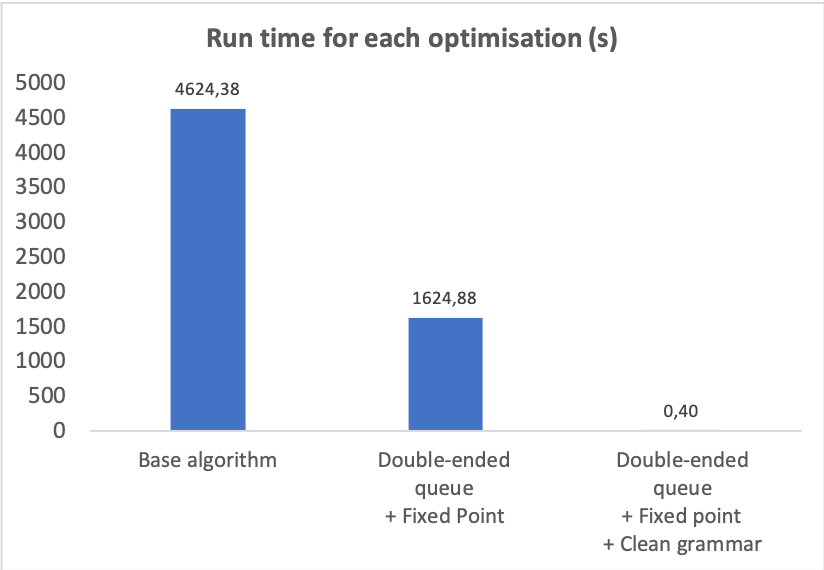
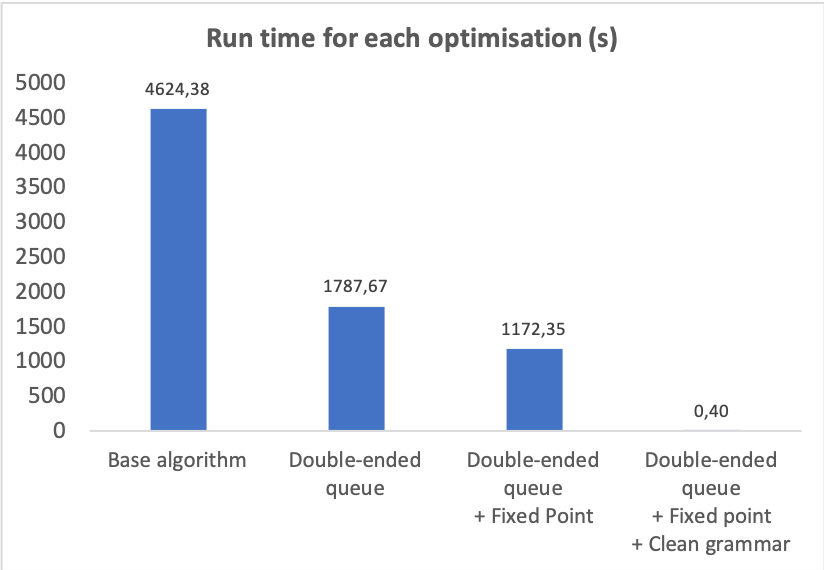
updates concur 2019

Changed region(s): [[0.1214, 0.1193, 0.7282, 0.9246], [0.7282, 0.7754, 0.9709, 0.9842], [0.7888, 0.7158, 0.8799, 0.7456]]

diff --git a/doc/Concur2019/soundness.tex b/doc/Concur2019/soundness.tex
@@ -47,9 +47,10 @@ to $\toGrammarf S$.
 \end{lemma}
 
 \begin{proof}
-  By rule induction on the definition of $\DONE S$. Cases $\skipk$ and
-  $\reck$ follow directly from the respective cases in function
-  $\toGrammark$ in Listing~\ref{lst:toGrammar}. The case for
+  By rule induction on the definition of $\DONE S$. Case $\skipk$ 
+  follows directly from the case in function
+  $\toGrammark$ in Listing~\ref{lst:toGrammar}. The cases for
+  $\reck$  and for
   sequential composition follows by induction and the fact that
   $\varepsilon+\!\!+\,\varepsilon=\varepsilon$.
   % Given that all variables in a type are under some $\mu$-binder,
@@ -62,7 +63,7 @@ to $\toGrammarf S$.
 \end{proof}
 
 To prove that the bisimulations on context-free session types and
-those on productions coincide, we present a bisimilarity between
+on grammars coincide, we present a bisimilarity between
 context-free session types and the result of \lstinline|toGrammar|.
 %
 %As the implementation of \isCheckedf is not shown, we assume that
@@ -110,6 +111,23 @@ symbol}, \vec W \text{ is a word}\}\subseteq P$:
 	\{Z \rightarrow a_j \vec {W_j}\}_{j\in J}\subseteq P
 \end{cases}
 \]
+
+To show that $\mathcal{R}$ is a bisimilarity, we use
+the unravelling function proposed 
+by Thiemann and Vasconcelos~\cite{thiemann2016context}:
+\[\begin{aligned}
+\Unravel(\mu x . S) &= \Unravel(\subs{\mu X.S}{X} S)\\
+\Unravel(S_1;S_2) &= 
+\begin{cases}
+	\Unravel(S_2) & \Unravel(S_1)=\skipk\\
+	\Unravel(S_1);S_2 & \Unravel(S_1)\neq\skipk\\
+\end{cases} \\
+\Unravel(S)&= S \text{  for all other cases}
+\end{aligned}\]
+%
+Notice that for any recursive type 
+$\mu X.S$, $\Unravel(\mu X.S)$ is not a recursive type and preserves the 
+transitions from $\mu X.S$.
 
 \begin{lemma}
   \label{lemma:bisim_unr}
@@ -167,22 +185,7 @@ The same argument applies to the proof of the following lemma.
 \end{lemma}
 
 Now we show that the relation $\mathcal{R}$ is a bisimilarity. We do it
-by induction. For that, we use the unravelling function proposed 
-by Thiemann and Vasconcelos~\cite{thiemann2016context}:
-
-\[\begin{aligned}
-\Unravel(\mu x . S) &= \Unravel(\subs{\mu X.S}{X} S)\\
-\Unravel(S_1;S_2) &= 
-\begin{cases}
-	\Unravel(S_2) & \Unravel(S_1)=\skipk\\
-	\Unravel(S_1);S_2 & \Unravel(S_1)\neq\skipk\\
-\end{cases} \\
-\Unravel(S)&= S \text{  for all other cases}
-\end{aligned}\]
-%
-Notice that for any recursive type 
-$\mu X.S$, $\Unravel(\mu X.S)$ is not a recursive type and preserves the 
-transitions from $\mu X.S$.
+by induction, using the unravelling function. 
 
 \begin{theorem}
 \label{thm:cfst_vs_grammar}
@@ -193,7 +196,7 @@ transitions from $\mu X.S$.
 	We show that for each $(S, (\vec X, P))\in \mathcal{R}$	, if
 	$S \LTSderives[a] T$ then $\vec X \rightarrow a \vec Y\in P$
 	and $(T, (\vec Y, P'))\in \mathcal{R}$ for some $P'$. The proof is by
-	induction on the structure of $S$. With this purpose, whenever $S$ is a 
+	induction on the structure of $S$. Whenever $S$ is a 
 	recursive type, we reduce the analysis to $\Unravel(S)$, that
 	is not recursive. Indeed, without loss of generality, 
 	we can always reduce the analysis of $S$
@@ -242,8 +245,15 @@ transitions from $\mu X.S$.
     	Lemma~\ref{lem:terminated-togrammar} we have $\vec X_1 = \varepsilon$, 
     	hence $\vec X_1 \vec X_2 = \vec X_2 \rightarrow a \vec Y_2$.
     	\end{itemize}
-    	\item $(\mu X.S, (\varepsilon, \emptyset))$ and $Z\vec Z, P = \toGrammarf{S}$: 
-    	by corollary~\ref{corol:bisim_unr}, we have 
+		\item $(\mu X.S, (\varepsilon, \emptyset))$ and $\varepsilon, \emptyset = \toGrammarf{S}$: 
+    	assume that there exists $\mu X.S  \LTSderives[a] T$. This
+    	implies that $\Unravel(\mu X.S)  \LTSderives[a] T$. Observe that
+    	by definition of the unravel and since $S$ is contractive, we should
+    	also have a transition $S  \LTSderives[a] T'$, and hence $S$ would derive a 
+    	production, which is a contradiction with
+    	the assumption that $\varepsilon, \emptyset = \toGrammarf{S}$.
+    	\item $(\mu X.S, (\varepsilon, \emptyset))$, $Z\vec Z, P = \toGrammarf{S}$, and $\pi(Z)=\emptyset$: 
+    	by corollary~\ref{corol:bisim_unr}, we know that 
     	$(\Unravel(\mu X.S), (\varepsilon, \emptyset)) \in \mathcal{R}$ and thence
     	\begin{equation}
     	\label{eq:unr}
@@ -252,31 +262,27 @@ transitions from $\mu X.S$.
     	Now assume that
     	exists $\mu X.S  \LTSderives[a] T$. This means that 
     	$\Unravel(\mu X.S) \LTSderives[a] T$. By induction hypothesis on 
-    	$\Unravel(\mu X.S)$, we would have $(\Unravel(\mu X.S), (\vec X, P))$
+    	$\Unravel(\mu X.S)$, we would have $(\Unravel(\mu X.S), (\vec X, P))
+    	\in \mathcal{R}$
     	where $\vec X, P = \toGrammarf{(\Unravel(\mu X.S))}$ and with
     	$\vec X \rightarrow a \vec Y \in P$, which is a contradiction 
     	with~\eqref{eq:unr} and so $\mu X.S$ does not have any transition.
 %    	in this case, $\isCheckedf \mu X.S$, thus
 %    	we do not have any transition (Lemma~\ref{lem:terminated-togrammar}).
-		\item $(\mu X.S, (\varepsilon, \emptyset))$ and $\varepsilon, \emptyset = \toGrammarf{S}$: 
-    	assume that there exists $\mu X.S  \LTSderives[a] T$. This
-    	implies that $\Unravel(\mu X.S)  \LTSderives[a] T$. Observe that
-    	by definition of the unravel and since $S$ is contractive, we should
-    	also have $S  \LTSderives[a] T'$, and hence $S$ would derive a 
-    	production, which is a contradiction with
-    	the assumption that $\varepsilon, \emptyset = \toGrammarf{S}$.
     	\item $(\mu X.S, (X, \{X \rightarrow a_j \vec {W_j}\vec Z\}_{j\in J} \cup  P))$: 
     	if $\mu X.S\LTSderives[b] T$, then $\Unravel(\mu X.S)\LTSderives[b] T$.
     	Furthermore, by Lemma~\ref{lemma:bisim_unr} we know that 
-    	$(\Unravel(\mu X.S), (X, \{X \rightarrow a_j \vec {Z_j}\vec Y\}_{j\in J} \cup  P))
+    	$(\Unravel(\mu X.S), (X, \{X \rightarrow a_j \vec {W_j}\vec Z\}_{j\in J} \cup  P))
     	\in\mathcal{R}$. By induction hypothesis on $\Unravel(\mu X.S)$, 
     	and since $X$ does not occur in $P$, it follows 
-    	that $b=a_j$ for some $j\in J$ and $(T, (\vec Z_j \vec Y, P'))\in \mathcal{R}$.
+    	that $b=a_j$ for some $j\in J$ and $(T, (\vec W_j \vec Z, P'))\in \mathcal{R}$.
 	\end{itemize} 
 	The proof that any transition in the productions leads to a transition in 
 	the corresponding type is very similar and is also done by induction. 
 	For that,
-	we only need to recall that the variable $X$ is a fresh variable and, thus, 
+	we only need to recall that the variable $X$ is either 
+	a fresh variable or a recursion variable, that is unique due to the
+	renaming assumption, and thus
 	the transitions from $X$ are simply the ones explicitly detailed in each 
 	pair from $\mathcal{R}$.
 \end{proof}
@@ -305,7 +311,7 @@ to at least one child node and, reciprocally, that bisimulation on a
 child node implies the bisimulation of its parent node, thus proving
 the safeness property.
 
-While the safeness property will be instrumental in proving
+While the safeness property is instrumental in proving
 soundness, the \emph{finite witness property} is of
 utmost importance to prove completeness. This result follows
 immediately from the analysis by Jan{\v{c}}ar and
@@ -324,7 +330,7 @@ details on the proof of existence of a finite witness, as stated in
 Proposition~\ref{finite_witness}. This proof is particularly
 interesting in that it highlights the importance of BPA rules and of
 pruning productions on reaching such (finite) witness. The results in
-these two papers also allows unravelling the reason for the
+these two papers also allow unravelling the reason for the
 distinction, in the simplification phase, between the cases where all
 the symbols in the grammar are and are not normed, as shown in
 Listing~\ref{lst:algorithm}.
@@ -348,7 +354,7 @@ and completeness.
         terminates.  To conclude that all branches are finite, observe
         that any infinite branch is successful by definition and thus
         the safeness property would imply $X_S\ProdEquiv X_T$ and we
-        would have $S\TypeEquiv T$.
+        would have $S\TypeEquiv T$, by Theorem~\ref{thm:cfst_vs_grammar}.
 \end{proof}
 
 %\begin{proof}
@@ -419,7 +425,7 @@ types. The finite witness property is paramount to achieve this result.
 %
 \begin{proof}
   Assuming that $S \TypeEquiv T$, by Theorem~\ref{thm:cfst_vs_grammar}
-  we have $X_{S} \ProdEquiv X_{T}$.  Hence, the Proposition~\ref{finite_witness}
+  we have $X_{S} \ProdEquiv X_{T}$.  Hence, Proposition~\ref{finite_witness}
   ensures the existence of a finite successful branch on the
   expansion tree rooted at $\{(X_{S},X_{T})\}$, i.e., a branch
   terminating in an empty node.  Since our algorithm traverses the
@@ -427,8 +433,8 @@ types. The finite witness property is paramount to achieve this result.
   the empty node and conclude the bisimulation positively.
 \end{proof}
 
-Given that the algorithm terminates, if $\bisimf S T$ returns
-  \lstinline|False| then we know that $S \not\TypeEquiv T$.
+Theorem~\ref{thm:completeness} ensures that if $\bisimf S T$ returns
+  \lstinline|False| then $S \not\TypeEquiv T$.
 
 % \begin{corollary}
 % 	If $\bisimf ST$ returns \upshape{\lstinline|False|} then $S\not\TypeEquiv T$.

diff --git a/doc/Concur2019/introduction.tex b/doc/Concur2019/introduction.tex
@@ -30,11 +30,11 @@ of a channel. A process holding such a channel end must first
 \emph{select} between choices \lstinline|Leaf| and
 \lstinline|Node|. If \lstinline|Leaf| is chosen, then interaction is
 terminated, as indicated by \lstinline|Skip|. Otherwise, the process
-must send and integer (\lstinline|!Int|) followed by two whole trees,
-witnessed by the recursive calls to \lstinline|TreeChannel|.
+must send an integer (\lstinline|!Int|) followed by two complete trees,
+as witnessed by the recursive calls to \lstinline|TreeChannel|.
 
-A concurrent process holding the other end interacts with the channel
-via a \emph{dual} type:
+A concurrent process holding the other end of the channel 
+interacts via a \emph{dual} type:
 %
 \begin{lstlisting}
   rec y. &{Leaf: Skip, Node: ?Int;y;y}
@@ -43,7 +43,7 @@ via a \emph{dual} type:
 In this case the process must be ready to offer both choices,
 \lstinline|Leaf| and \lstinline|Node|. For the latter option, the
 process must further receive an integer (\lstinline|?Int|), followed
-by two whole trees.
+by two complete trees.
 
 Regular languages cannot capture such a behaviour. The best one can do
 with regular session types (and without resorting to channel passing)
@@ -64,8 +64,7 @@ Algebra (BPA) which, in turn, was proved decidable by Christensen,
 H{\"{u}}ttel, and Stirling~\cite{DBLP:journals/iandc/ChristensenHS95}.
 %
 Even if the equivalence problem for context-free session types is
-known to be decidable, the only implementation of context-free session
-types we are aware of is that of
+known to be decidable, the only implementation we are aware of is that of
 Padovani~\cite{DBLP:conf/esop/Padovani17}, included in a programming
 language that requires a structural alignment between code and types
 (enforced by an explicit resumption process operator that breaks
@@ -77,7 +76,7 @@ result that provides no immediate practical algorithm---the problem of
 deciding the equivalence of BPA terms has been addressed by several
 researchers~\cite{DBLP:conf/mfcs/BurkartCS95,DBLP:journals/iandc/ChristensenHS95,czerwinski2010fast,janvcar1999techniques}.
 Most of these papers provide no practical algorithm that can be
-readily extracted, except the one by Czerwinski and Lasota where a
+readily used, except the one by Czerwinski and Lasota where a
 polynomial time algorithm is presented that decides the bisimilarity
 of normed context-free processes in
 $\mathcal{O}(n^5)$~\cite{czerwinski2010fast}.
@@ -134,7 +133,7 @@ graphs~\cite{caucal1986decidabilite,
   DBLP:journals/iandc/ChristensenHS95} is paramount for our results of
 soundness and completeness. The branching nature of the expansion tree
 confers (at least) an exponential complexity to the 
-algorithm, however
+algorithm. However,
 we propose heuristics that allow constructing the relation in a
 reasonable time.
 

diff --git a/doc/Concur2019/algorithm.tex b/doc/Concur2019/algorithm.tex
@@ -47,15 +47,16 @@ The associated bisimulation is denoted by $\ProdEquiv$.
 
 Given a context-free session type $S$, the algorithm starts by
 inserting an initial production of the form
-$X_S \rightarrow \,\initialProd\,(\toGrammarf\,S)$ in the set of
-productions.
+$X_S \rightarrow \,\initialProd\,\vec Y$ in the set of
+productions, where $\vec Y$ is the word obtained by running 
+\lstinline|toGrammar S|.
 %
 Function \lstinline|toGrammar| (Listing~\ref{lst:toGrammar}) returns a
 sequence of non-terminal symbols, while computing the remaining
 productions.
 %
-It uses a predicate \lstinline|isChecked| $S$ to determine whether $S$
-is terminated, that is whether \DONE S.
+%It uses a predicate \lstinline|isChecked| $S$ to determine whether $S$
+%is terminated, that is whether \DONE S.
 %
 The algorithm keeps the set of productions and an integer (to generate
 fresh non-terminal symbols) in the monadic state
@@ -155,9 +156,9 @@ the length of~$\vec a$.
 
 As observed by Christensen H\"uttel, and
 Stirling~\cite{DBLP:journals/iandc/ChristensenHS95}, any unnormed
-words $\vec Y$ is bisimilar to its concatenation with any other
-nonterminal symbols, that is, if $\vec Y$ is unnormed, then
-$\vec Y \ProdEquiv \vec YX$.
+word $\vec Y$ is bisimilar to its concatenation with any other
+word, that is, if $\vec Y$ is unnormed, then
+$\vec Y \ProdEquiv \vec Y \vec X$.
 %
 % \begin{equation}
 %\label{unnormed}
@@ -246,7 +247,7 @@ minimal set such that: for every pair $(\vec X, \vec Y) \in N$,
 \end{itemize}
 
 An \emph{expansion tree} is built from a root node: the singleton set
-containing of the words obtained by translating the pair of types
+containing the pair of words obtained by translating the two types
 into a grammar. Children nodes are obtained by expansion from its
 parent node. Jan{\v{c}}ar and Moller observed that expansion alone
 often leads to infinite trees. We then alternate between expansion and
@@ -325,7 +326,7 @@ branch resulting from successive expansions.
 Given two context-free session types, function \lstinline|bisimilar|
 (in Listing~\ref{lst:algorithm}) starts by converting the two session
 types into a grammar, which is then pruned. Function
-\lstinline|convertToGrammar| (not shown) builds the initial monadic
+\lstinline|convertToGrammar| (in Appendix) builds the initial monadic
 state, and runs the algorithm in Listing~\ref{lst:toGrammar} to
 convert the session types given as parameters.
 %

diff --git a/doc/Concur2019/evaluation.tex b/doc/Concur2019/evaluation.tex
@@ -12,7 +12,9 @@ mini equipped with a 3.6 GHz Intel Core i3, 8 GB of memory, running
 MacOS 10.14.3.
 
 Once the improvement proposals were established, we benchmarked the
-algorithm on a test suite of carefully crafted pair of types. These
+algorithm on a test suite of carefully crafted pairs of types
+based on cases observed when using the compiler where the algorithm is 
+used~\cite{almeida.etal_freest-functional-language}. These
 tests comprise valid and invalid equivalences, for a total of 154
 tests. We have profiled our program for the time and memory allocated
 during the tests. For this purpose, we have used GHC's profiling
@@ -32,10 +34,13 @@ Figure~\ref{fig:results}.
 For the base algorithm, proposed in Listing~\ref{lst:algorithm}, we
 obtained a running time of about 4624 seconds and
 8,660,309 Mb memory allocated. From the moment we introduced the
-optimizations the results improved remarkably: iterating the
-simplification phase in the search for a fixed point and implementing
-a double-ended queue, we reduced the running time to 1625 and the 
-allocated memory to 1,044,240 Mb. The 
+optimizations the results improved remarkably: 
+implementing a double-ended queue we reduced the running time to 1788 
+seconds and the allocated memory to 1,997,841 Mb, by also
+iterating the
+simplification phase in the search for a fixed point we obtained a 
+running time of 1625 seconds and 
+allocated memory of 1,044,240 Mb. The 
 combination of these enhancements with the clean grammar generation
 exhibit an improvement in more than 1,000,000\% from the base case,
 achieving a running time of 0.4 seconds and 306 Mb 

diff --git a/doc/Concur2019/optimisations.tex b/doc/Concur2019/optimisations.tex
@@ -101,9 +101,11 @@ Recalling that the size of the expansion tree (also) depends on the
 number of productions in the grammar, the generation of grammars cleaned
 of redundant terminal symbols is paramount to reduce the size of the
 expansion tree and thus to enhance the performance. We define a 
-function \lstinline|addBasicProd| that avoids the blind creation of 
-fresh variables in \lstinline|toGrammar (Message p b)| 
-(in listing~\ref{lst:toGrammar}) by a prior search for existing productions
+function \lstinline|addBasicProd| (see Appendix) that avoids the 
+blind creation of 
+fresh variables in function \lstinline|toGrammar| case 
+\lstinline|Message p b| 
+(in Listing~\ref{lst:toGrammar}) by a prior search for existing productions
 with the respective terminal symbols.
 
 The optimisations we propose aim at improving the performance of the
